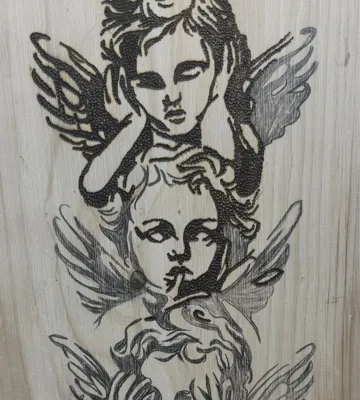
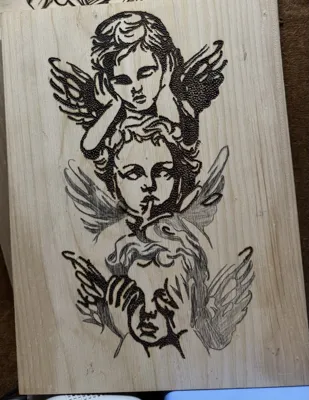
Cherubs step 5 + new 370Z WIP project

diff --git a/index.html b/index.html
@@ -1098,6 +1098,7 @@
   <button class="wip-subtab-btn" data-project="dev">For Dev 💛</button>
   <button class="wip-subtab-btn" data-project="hamsa">Hamsa 🪬</button>
   <button class="wip-subtab-btn" data-project="noevil">Hear No, Speak No, See No Evil 🙉🙊🙈</button>
+  <button class="wip-subtab-btn" data-project="z370">370Z 🏎</button>
       <button class="wip-subtab-btn" data-project="">✨ORDER YOUR ART TODAY!✨</button>
 </div>
 
@@ -1321,6 +1322,32 @@
   <div class="caption">
     <span class="title">Hear No, Speak No, See No Evil 🙉🙊🙈 — Step 4, top angel and wings done</span><br>
     <span style="font-size:0.8rem;">Available · can also be reproduced · <a href="#commission" style="color:var(--ember-2);">Request if interested →</a></span>
+  </div>
+</article>
+
+<article class="piece" data-cat="noevil-photo" data-project="noevil">
+  <img src="images/noevil5.jpeg" alt="Three cherubs on wood, the top two cherubs burned in dark stipple, the bottom cherub's hands and face burned while its wings are still in pencil" loading="lazy">
+  <div class="scorch"></div>
+  <div class="caption">
+    <span class="title">Hear No, Speak No, See No Evil 🙉🙊🙈 — Step 5, all three faces burned in</span><br>
+    <span style="font-size:0.8rem;">Available · can also be reproduced · <a href="#commission" style="color:var(--ember-2);">Request if interested →</a></span>
+  </div>
+</article>
+
+<!-- WIP 11/9/26: 370Z — car in the mountains -->
+<article class="piece" data-cat="z370-photo" data-project="z370" id="z370">
+  <img src="images/z1.jpeg" alt="A Nissan Z sports car parked under a tree with mountains, pine trees and a setting sun behind it, sketched in pencil on a wood panel" loading="lazy">
+  <div class="scorch"></div>
+  <div class="caption">
+    <span class="title">370Z 🏎 — Step 1, sketched and ready to burn</span>
+  </div>
+</article>
+
+<article class="piece" data-cat="z370-photo" data-project="z370">
+  <img src="images/z2.jpeg" alt="The same Nissan Z scene with the car, mountains, pine trees and clouds burned and shaded into the wood, the tree and sun still in pencil" loading="lazy">
+  <div class="scorch"></div>
+  <div class="caption">
+    <span class="title">370Z 🏎 — Step 2, burned and shaded</span>
   </div>
 </article>
 
@@ -2739,8 +2766,8 @@
 
 
   /* Customer links: emberandgrainstudios.com/#amen opens that project */
-  const projectLinks = { amen:'done', princess:'done', butterflykiss:'wip', dev:'wip', noevil:'wip', maddie:'done', hamsa:'done', ofrenda:'done', babyforest:'done' };
-  const projectIds   = { amen:'amen', princess:'princess', butterflykiss:'butterflykiss', dev:'dev', noevil:'noevil', maddie:'maddie', hamsa:'hamsa', ofrenda:'dmg', babyforest:'LS' };
+  const projectLinks = { amen:'done', princess:'done', butterflykiss:'wip', dev:'wip', noevil:'wip', '370z':'wip', maddie:'done', hamsa:'done', ofrenda:'done', babyforest:'done' };
+  const projectIds   = { amen:'amen', princess:'princess', butterflykiss:'butterflykiss', dev:'dev', noevil:'noevil', '370z':'z370', maddie:'maddie', hamsa:'hamsa', ofrenda:'dmg', babyforest:'LS' };
 
   if (projectLinks[startFilter]) {
 
@@ -2825,7 +2852,7 @@
       { img:'images/hamsa-card.webp', alt:'Hamsa, a newly finished woodburning of a hand with an evil eye',
         label:'🔥 Fresh off the burner', title:'Hamsa 🪬', sub:'A studio keeper. No evil will harm me.',
         see:'See it', order:'Commission yours', tab:'done', project:'hamsa', target:'hamsa-final' },
-      { img:'images/noevil-card.webp', alt:'Hear No, Speak No, See No Evil, three cherubs with the top angel and wings fully burned',
+      { img:'images/noevil-card.webp', alt:'Hear No, Speak No, See No Evil, three cherubs with all three faces burned in',
         label:'🙉 On the burner now', title:'Hear No, Speak No, See No Evil', sub:'Three little angels. Available!',
         see:'Watch progress', order:'Request if interested', tab:'wip', project:'noevil', target:null },
       { img:'images/maddie-card.webp', alt:'The Joker and Sriracha, two newly finished woodburnings for Maddie',
